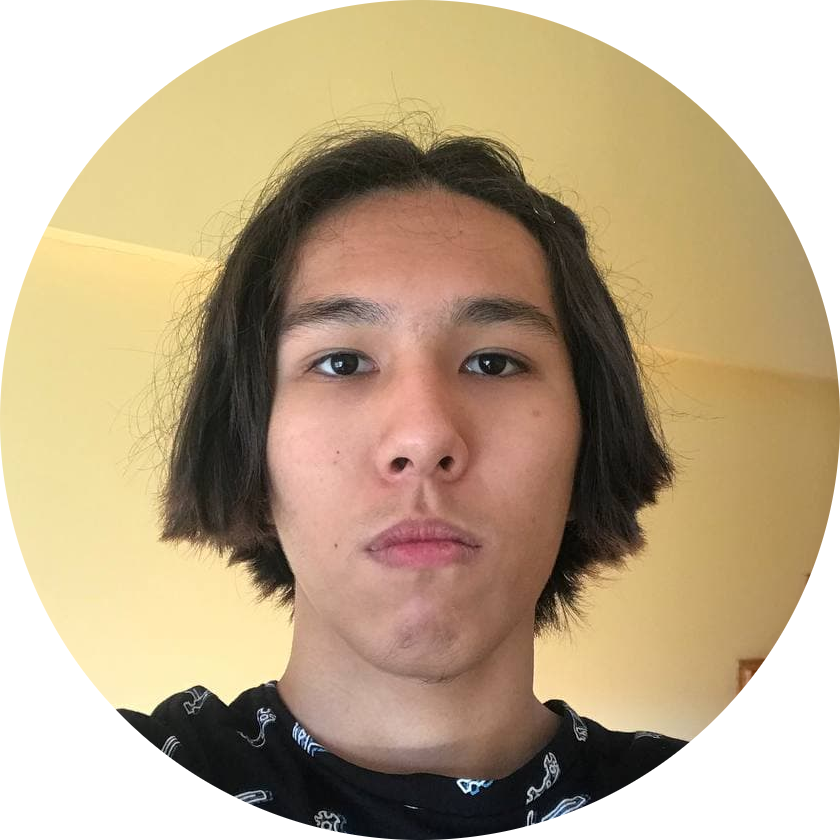
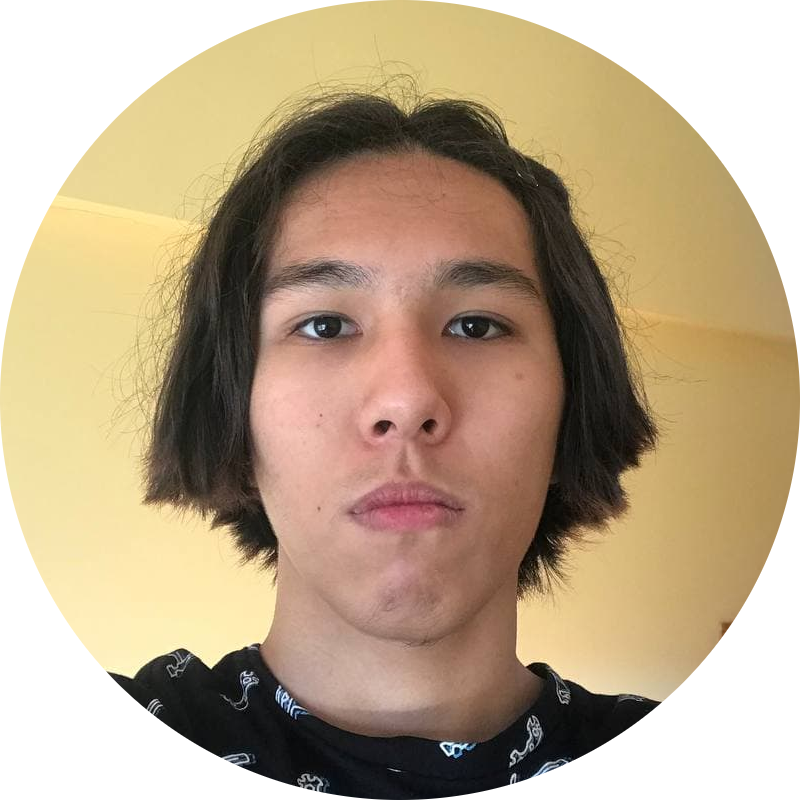
Update my selfie

diff --git a/style.css b/style.css
@@ -10,7 +10,7 @@
 
 .selfie {
     display: block;
-    width: 300px;
+    width: 320px;
     border: none;
 }
 
